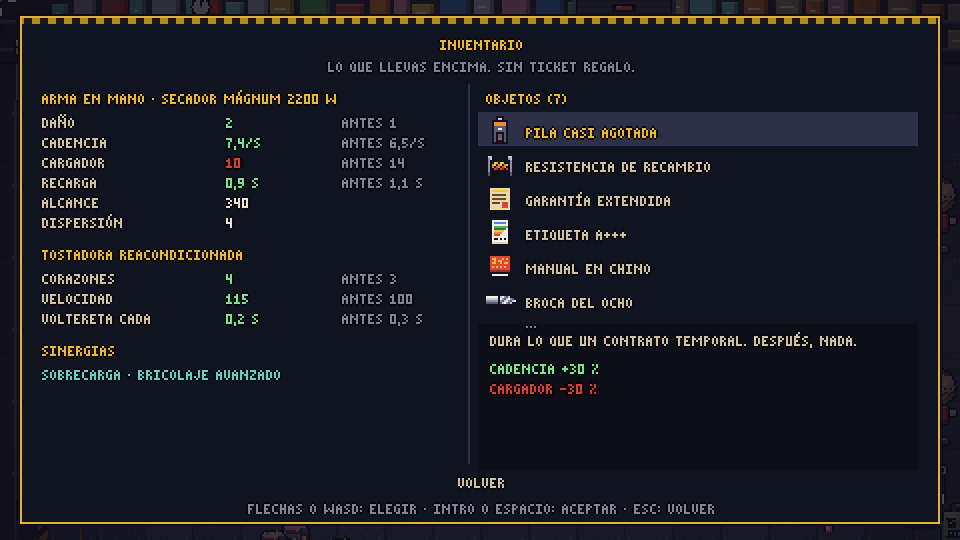
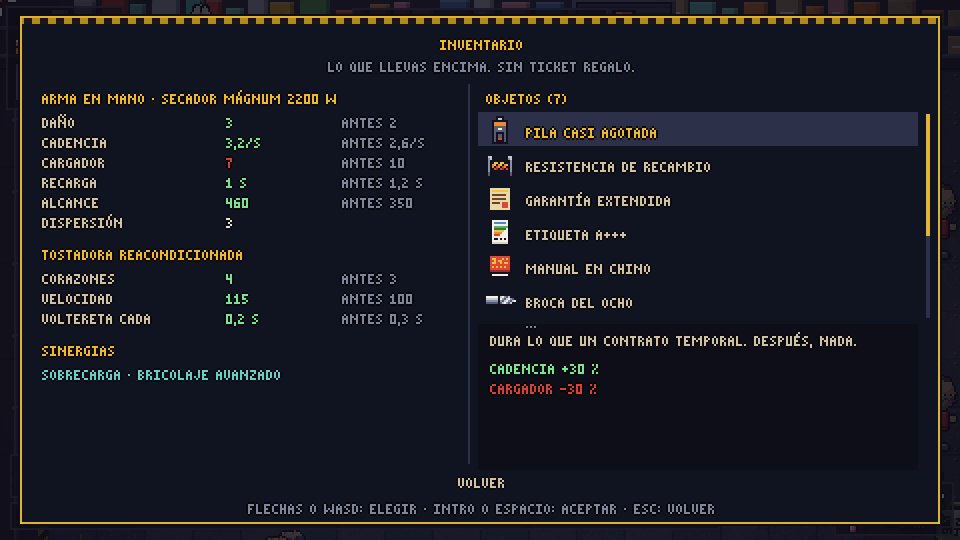
M7: errores conocidos (3), las asperezas; M7 terminado (versión 0.2.0)
Claude-Session: https://claude.ai/code/session_01LyCe1MtaF7ZEis8MKMvp3p

diff --git a/src/render/GameScene.ts b/src/render/GameScene.ts
@@ -228,6 +228,7 @@ export class GameScene extends Phaser.Scene {
   /** A line the till says once the one it is saying ends. */
   private tillNext: string | null = null;
   private banner!: Phaser.GameObjects.BitmapText;
+  private bannerPlate!: Phaser.GameObjects.Graphics;
   /** The description window that opens for a while when an item or a weapon is picked up. */
   private card!: ItemCard;
   private shutters: Array<{ img: Phaser.GameObjects.Image; h: number }> = [];
@@ -460,6 +461,9 @@ export class GameScene extends Phaser.Scene {
     this.holdWash = this.add.rectangle(0, 0, VIEW_W, VIEW_H, 0x9fb4e0, 1).setOrigin(0, 0).setScrollFactor(0).setDepth(88000).setAlpha(0);
     this.hurtFlash = this.hud(this.add.rectangle(0, 0, VIEW_W, VIEW_H, 0xe0453b, 1).setOrigin(0, 0)).setAlpha(0).setDepth(89000);
     this.banner = this.hud(this.add.bitmapText(VIEW_W / 2, 44, FONT, '', 8).setOrigin(0.5, 0).setCenterAlign());
+    // Its plate, like the HUD's, so it reads over the shelves (drawn each frame; see updateHud).
+    this.bannerPlate = this.hud(this.add.graphics());
+    this.bannerPlate.setDepth(this.banner.depth - 1);
     this.banner.setTint(0xf6c431).setAlpha(0);
     this.itemDesc = this.hud(this.add.bitmapText(VIEW_W / 2, 57, FONT, '', 8).setOrigin(0.5, 0).setCenterAlign().setMaxWidth(300)).setTint(0xd6cdb2).setAlpha(0);
     this.card = {
@@ -923,15 +927,21 @@ export class GameScene extends Phaser.Scene {
     where.setTint(0x858ea8).setAlpha(0);
     this.introParts.push(where);
     this.tweens.add({ targets: where, alpha: 1, delay: 300, duration: 200 });
+    // With big text the small lines go to double size (the name already is) and the motto may
+    // take two lines; the card grows upwards from the bottom bar.
     const x = 22;
-    const y = VIEW_H - BAR - 46;
-    const sub = this.hud(this.add.bitmapText(x, y, FONT, fontText(BOSS_CARD_SUBTITLE), 8)).setDepth(96001);
+    const small = 8 * scale;
+    const mottoText = wrapLines(fontText(`«${card.motto}»`), VIEW_W - 2 * x, scale).join('\n');
+    const mottoH = mottoText.split('\n').length * small;
+    const y = VIEW_H - BAR - 1 - mottoH - 29 - small;
+    const sub = this.hud(this.add.bitmapText(x, y, FONT, fontText(BOSS_CARD_SUBTITLE), small)).setDepth(96001);
     sub.setTint(0x858ea8).setAlpha(0);
-    const name = this.hud(this.add.bitmapText(x, y + 11, FONT, fontText(card.title), 16)).setDepth(96001);
+    const ny = y + small + 3;
+    const name = this.hud(this.add.bitmapText(x, ny, FONT, fontText(card.title), 16)).setDepth(96001);
     name.setTint(0xf6c431).setAlpha(0);
-    const line = this.hud(this.add.rectangle(x, y + 32, 1, 2, 0xe0453b, 1).setOrigin(0, 0)).setDepth(96001);
+    const line = this.hud(this.add.rectangle(x, ny + 21, 1, 2, 0xe0453b, 1).setOrigin(0, 0)).setDepth(96001);
     line.setAlpha(0);
-    const motto = this.hud(this.add.bitmapText(x, y + 37, FONT, fontText(`«${card.motto}»`), 8)).setDepth(96001);
+    const motto = this.hud(this.add.bitmapText(x, ny + 26, FONT, mottoText, small)).setDepth(96001);
     motto.setTint(0xd6cdb2).setAlpha(0);
     const skip = this.hud(this.add.bitmapText(VIEW_W - 8, VIEW_H - 18, FONT, fontText(BOSS_CARD_SKIP), 8).setOrigin(1, 0)).setDepth(96001);
     skip.setTint(0x5a627c).setAlpha(0);
@@ -1065,6 +1075,17 @@ export class GameScene extends Phaser.Scene {
   private whiteOut(s: Phaser.GameObjects.Image): void {
     if (settings().flashes) s.setTintFill(0xffffff);
     else s.setTint(SOFT_FLASH_TINT);
+  }
+
+  /** Whether a warning shows this frame: blinking faster and faster, or steady with soft flashes. */
+  private warnOn(warnK: number): boolean {
+    return settings().flashes ? blinkOn(warnK) : true;
+  }
+
+  /** The warning on a sprite: solid yellow (white at the end); with soft flashes, a yellow tint. */
+  private warnFill(s: Phaser.GameObjects.Image, warnK: number): void {
+    if (settings().flashes) s.setTintFill(this.warnColor(warnK));
+    else s.setTint(this.warnColor(warnK));
   }
 
   /** Telegraph colour: yellow, turning white at the end (only yellow with soft flashes). */
@@ -2011,14 +2032,17 @@ export class GameScene extends Phaser.Scene {
 
   /** A line that pops up from (x, y) and fades; if another is still there, it goes up over it. */
   private floatText(x: number, y: number, text: string, tint: number, key?: string, vy = -30, life = 0.6): FloatText {
-    const w = textWidth(text);
-    const box = { x: Math.round(x - w / 2), y: Math.round(y) - 8, w, h: 8 };
+    // Double size with big text, like everything that is read.
+    const scale = readScale(settings());
+    const w = textWidth(text) * scale;
+    const h = 8 * scale;
+    const box = { x: Math.round(x - w / 2), y: Math.round(y) - h, w, h };
     const placed = this.floats.map((f) => {
       const b = f.t.getBounds();
       return { x: b.x, y: b.y, w: b.width, h: b.height };
     });
     const top = stackFloat(placed, box);
-    const t = this.add.bitmapText(Math.round(x), top + 8, FONT, text, 8).setOrigin(0.5, 1).setDepth(85000).setTint(tint);
+    const t = this.add.bitmapText(Math.round(x), top + h, FONT, text, h).setOrigin(0.5, 1).setDepth(85000).setTint(tint);
     const f: FloatText = { t, vy, life, key, age: 0 };
     this.floats.push(f);
     return f;
@@ -2162,7 +2186,7 @@ export class GameScene extends Phaser.Scene {
       s.setX(d.x + shiver);
       if (d.hitT > 0.07) this.whiteOut(s);
       else if (d.hitT > 0) s.setTint(0xffb0a0);
-      else if (warnK >= 0 && blinkOn(warnK)) s.setTintFill(this.warnColor(warnK));
+      else if (warnK >= 0 && this.warnOn(warnK)) this.warnFill(s, warnK);
       else s.clearTint();
     }
     // Enemies (the ones that come back after a restock get their sprites here).
@@ -2223,9 +2247,9 @@ export class GameScene extends Phaser.Scene {
       if (en.hitT > 0.07 || tv.white) this.whiteOut(s);
       else if (en.hitT > 0) s.setTint(0xffb0a0);
       // A boss only goes warm while it warns: a white fill would hide its open door.
-      else if (warnK >= 0 && blinkOn(warnK)) {
+      else if (warnK >= 0 && this.warnOn(warnK)) {
         if (en.def.boss) s.setTint(warnK > 0.75 ? 0xffe9a8 : 0xffc870);
-        else s.setTintFill(this.warnColor(warnK));
+        else this.warnFill(s, warnK);
       } else s.clearTint();
       if (en.state === 'roar') {
         // Between phases: it shudders and breathes out cold.
@@ -2642,11 +2666,21 @@ export class GameScene extends Phaser.Scene {
   }
 
   /** Puts every HUD piece where the layout says and draws the plates behind them. */
-  private placeHud(l: HudLayout): void {
+  private placeHud(layout: HudLayout): void {
+    let l = layout;
+    // The items glide to a new place 1 px a frame (when the controls hint goes, they move down a
+    // row), their plate with them; a new icon, or one far away, goes straight there.
+    let lag = 0;
     this.itemIcons.forEach((icon, i) => {
       const at = l.items[i];
-      if (at) icon.setPosition(at.x, at.y);
+      if (!at) return;
+      const dx = at.x - icon.x;
+      const dy = at.y - icon.y;
+      if (!icon.getData('placed') || Math.abs(dx) + Math.abs(dy) > 40) icon.setPosition(at.x, at.y).setData('placed', true);
+      else icon.setPosition(icon.x + Math.sign(dx), icon.y + Math.sign(dy));
+      if (i === 0) lag = icon.y - at.y;
     });
+    if (l.itemsBox && lag) l = { ...l, itemsBox: { ...l.itemsBox, y: l.itemsBox.y + lag } };
     this.hearts.forEach((h, i) => h.setX(l.hearts[i]?.x ?? 8));
     this.hint.forEach((t, i) => {
       const line = l.hintLines[i];
@@ -2703,6 +2737,18 @@ export class GameScene extends Phaser.Scene {
 
   private updateHud(dt: number): void {
     const p = this.world.player;
+    const bp = this.bannerPlate;
+    bp.clear();
+    const ba = this.banner.alpha;
+    if (ba > 0 && this.banner.visible && this.banner.text) {
+      const b = this.banner.getBounds();
+      const x = Math.round(b.x) - 4;
+      const y = Math.round(b.y) - 2;
+      const w = Math.round(b.width) + 8;
+      const h = Math.round(b.height) + 3;
+      bp.fillStyle(0x0e0c16, 0.62 * ba).fillRect(x, y, w, h);
+      bp.lineStyle(1, 0x3a3f5c, 0.9 * ba).strokeRect(x + 0.5, y + 0.5, w - 1, h - 1);
+    }
     this.syncHudSlots();
     const l = this.computeLayout();
     this.layout = l;

diff --git a/src/render/PauseScene.ts b/src/render/PauseScene.ts
@@ -158,9 +158,13 @@ export class PauseScene extends Phaser.Scene {
     this.show('main');
   }
 
-  /** The entrance of the warehouse, dimmed, with the toaster in front and a vignette. */
+  /**
+   * The customer-service queue of the warehouse (20 tiles: as wide as the screen), empty, dimmed,
+   * with the toaster in front and a vignette.
+   */
   private drawTitleBackground(): void {
-    const room = buildRoom(ROOMS.entrada!);
+    const t = ROOMS['cola-atencion']!;
+    const room = buildRoom({ ...t, rows: t.rows.map((r) => r.replace(/[eo]/g, '.')) });
     if (!this.textures.exists('portada-sala')) addCanvasTexture(this, 'portada-sala', paintRoom(room, 'portada').canvas);
     this.add.image(VIEW_W / 2, VIEW_H / 2 + 20, 'portada-sala').setOrigin(0.5, 0.5);
     this.add.rectangle(0, 0, VIEW_W, VIEW_H, 0x0e0c16, 0.6).setOrigin(0, 0);
@@ -380,8 +384,10 @@ export class PauseScene extends Phaser.Scene {
       w = 200;
       y0 = 112;
     }
-    const x0 = Math.round(cx - w / 2) + (titleMain ? 30 : 0);
+    // On the title, the other screens stand to the right, clear of the toaster.
+    const x0 = titleMain ? Math.round(cx - w / 2) + 30 : this.mode === 'title' ? Math.max(Math.round(cx - w / 2), VIEW_W - 8 - w) : Math.round(cx - w / 2);
     const mx = x0 + w / 2;
+    const tc = titleMain ? cx : mx;
     const g = this.add.graphics();
     this.objs.push(g);
     g.fillStyle(0x0e0c16, 1).fillRect(x0 - 1, y0 - 1, w + 2, h + 2);
@@ -391,10 +397,10 @@ export class PauseScene extends Phaser.Scene {
     for (let x = x0 + 1; x < x0 + w - 1; x++) g.fillStyle(Math.floor(x / 4) % 2 === 0 ? 0xb08a1c : 0x191622, 1).fillRect(x, y0 + 1, 1, 3);
     let y = y0 + 12;
     if (!titleMain) {
-      text(cx, y, titles[this.screen], GOLD);
+      text(tc, y, titles[this.screen], GOLD);
       y += 14;
       if (sub) {
-        text(cx, y, sub, GREY);
+        text(tc, y, sub, GREY);
         y += 12;
       }
       y += 4;
@@ -422,7 +428,7 @@ export class PauseScene extends Phaser.Scene {
       y += 8;
     } else if (this.screen === 'credits') {
       CREDITS.forEach((l, i) => {
-        text(cx, y, l, i === CREDITS.length - 1 ? GREY : CREAM);
+        text(tc, y, l, i === CREDITS.length - 1 ? GREY : CREAM);
         y += 11;
       });
       y += 8;
@@ -449,7 +455,7 @@ export class PauseScene extends Phaser.Scene {
       text(6, VIEW_H - 11, TITLE_FOOTER, 0x5a627c, 0);
       const v = `v${__VERSION__}`;
       text(VIEW_W - 6 - textWidth(v), VIEW_H - 11, v, 0x5a627c, 0);
-    } else text(cx, y0 + h - 14, MENU_HINT, GREY);
+    } else text(tc, y0 + h - 14, MENU_HINT, GREY);
   }
 
   /**
@@ -530,6 +536,16 @@ export class PauseScene extends Phaser.Scene {
       ry += INVENTORY.rowH;
     });
     if (first + VISIBLE < things.length) text(rx + 20, ry - 3, '...', GREY);
+    // More than fits: a scroll bar on the right edge says how much and where.
+    if (things.length > VISIBLE) {
+      const top = y0 + 36 + 13;
+      const track = VISIBLE * INVENTORY.rowH;
+      const thumb = Math.max(6, Math.round((track * VISIBLE) / things.length));
+      const at = top + Math.round(((track - thumb) * first) / (things.length - VISIBLE));
+      const bx = x0 + W - 7;
+      g.fillStyle(0x2c3048, 1).fillRect(bx, top, 2, track);
+      g.fillStyle(GOLD, 0.9).fillRect(bx, at, 2, thumb);
+    }
 
     // Under the list: the chosen one in full.
     const sel = this.menu.current;

diff --git a/tools/e2e.ts b/tools/e2e.ts
@@ -241,9 +241,12 @@ try {
   if (s3.tick < 60 * seconds * 0.5) throw new Error(`La simulación va lenta: ${s3.tick} ticks en ${seconds} s`);
 
   // Damage: an enemy bullet at the toaster takes half a heart and leaves it blinking.
-  const bulletAt = (dx: number): string => `(() => { const w = window.__GE__.scene.world; const p = w.player;
-    w.bullets.push({ id: w.nextId++, owner: 'enemy', x: p.x - ${dx}, y: p.y - 9, vx: 140, vy: 0, r: 2.5, life: 3, damage: 1, knockback: 0,
-      color: 'red', age: 0, dir: 0, speed: 140, by: 'microondas' }); })()`;
+  // (From the left, or from the right if a box stands in the way on the left: it would stop it.)
+  const bulletAt = (dx: number): string => `(() => { const w = window.__GE__.scene.world; const p = w.player; const y = p.y - 9;
+    const blocked = (x0, x1) => w.room.props.some((pr) => pr.box.y <= y && y <= pr.box.y + pr.box.h && pr.box.x < Math.max(x0, x1) && pr.box.x + pr.box.w > Math.min(x0, x1));
+    const s = blocked(p.x - ${dx}, p.x) ? -1 : 1;
+    w.bullets.push({ id: w.nextId++, owner: 'enemy', x: p.x - s * ${dx}, y, vx: 140 * s, vy: 0, r: 2.5, life: 3, damage: 1, knockback: 0,
+      color: 'red', age: 0, dir: s > 0 ? 0 : Math.PI, speed: 140, by: 'microondas' }); })()`;
   await page.evaluate(`(() => { const w = window.__GE__.scene.world; w.noDamage = false; w.player.invulnerable = 0; w.player.rollT = -1; })()`);
   const hp0 = (await state()).hp;
   await page.evaluate(bulletAt(24));
@@ -809,8 +812,14 @@ try {
   await shot('31h-texto-grande-inventario-volver.png');
   await tapKeys('Escape', 'Escape');
   await page.waitForFunction('!window.__GE__.scene.scene.isPaused()', undefined, { timeout: 3000 });
+  // The boss card, with its motto at double size.
+  await page.goto(`${url}?semilla=e2e-jefe&sala=jefe`);
+  await page.waitForFunction('window.__GE__ && window.__GE__.state().ready', undefined, { timeout: 20000 });
+  await page.evaluate('window.__GE__.scene.world.noDamage = true');
+  await page.waitForTimeout(2300);
+  await shot('31i-texto-grande-jefa.png');
   await page.evaluate("localStorage.removeItem('garantia-expirada/opciones')");
-  console.log('Texto grande: ventana de descripción, sinergia después, nombre de sala, bocadillo de la caja, parte de baja e inventario.');
+  console.log('Texto grande: ventana de descripción, sinergia después, nombre de sala, bocadillo de la caja, parte de baja, inventario y tarjeta de la jefa.');
 
   // M6: the title screen. Credits, then a run; from the pause, back to the title.
   await page.goto(url);

diff --git a/docs/ERRORES_CONOCIDOS.md b/docs/ERRORES_CONOCIDOS.md
@@ -4,8 +4,9 @@ La lista viva de lo que está mal o se ve mal. Sale de los «Problemas conocidos
 (repasados uno a uno el 2026-10-29, contra el código y las capturas) y se mantiene a mano: quien
 encuentre un error lo apunta aquí, y quien lo arregle lo pasa a «Arreglados» con la fecha.
 
-El hito M7 pide que las dos primeras secciones queden **vacías**. Las otras no cuentan: son
-decisiones tomadas o trabajo que ya tiene sitio en otro hito.
+El hito M7 pedía que las dos primeras secciones quedaran **vacías** (lo están desde el
+2026-10-29). Las otras no cuentan: son decisiones tomadas o trabajo que ya tiene sitio en otro
+hito. A partir de M8, un error nuevo se apunta aquí y se arregla antes de cerrar su hito.
 
 ## Errores (algo funciona mal)
 
@@ -13,21 +14,7 @@ Ninguno conocido.
 
 ## Asperezas (se ve o se nota feo, sin romper nada)
 
-- [ ] Portada: la sala del fondo es más estrecha que la pantalla y se ven bordes oscuros a los
-  lados.
-- [ ] Portada: los paneles de créditos, opciones, controles e historial tapan media tostadora.
-- [ ] Al cambiar una tecla en la pausa, los carteles que ya estaban en pantalla siguen nombrando
-  la tecla vieja hasta que se van.
-- [ ] El nombre de la sala del tesoro («Objetos perdidos (nadie los reclamó)») cae encima de la
-  puerta de arriba.
-- [ ] El nombre del objeto recogido sale mientras aún se ve el nombre de la sala (un segundo, en
-  líneas distintas).
-- [ ] La ayuda de controles: al apagarse, los objetos de abajo bajan una fila de golpe.
-- [ ] Los avisos de «cambia de arma» y «agotado» no llevan placa (los demás letreros sí).
-- [ ] Inventario: con más cosas de las que caben, solo «...» indica que hay más; no hay barra.
-- [ ] Con **Destellos suaves**, los avisos amarillos siguen parpadeando (a unos 8 Hz al final).
-- [ ] Con **Texto grande**, la tarjeta de presentación de la jefa y los textos flotantes (daño,
-  cupones) siguen a tamaño normal.
+Ninguna conocida.
 
 ## No son errores (decidido, con su motivo)
 
@@ -52,6 +39,13 @@ Ninguno conocido.
 - El bot llega a la tienda a menudo con pocos cupones y no vuelve: es el bot, no el juego.
 - Las cifras de `npm run rendimiento` dependen de la máquina, y las de `npm run objetos` tienen
   un ruido de ±8 puntos con 40 combates: se comparan antes y después, no en absoluto.
+- Todos los nombres de sala salen arriba en el centro, sobre la pared del fondo, que es donde
+  está la puerta norte; en salas estrechas (el tesoro) la placa pisa el marco de la puerta. Se lee
+  gracias a la placa y se va a los 3 s.
+- El nombre de un objeto recién recogido puede coincidir un segundo con el nombre de la sala: van
+  en líneas distintas y se leen los dos.
+- Al cambiar una tecla en la pausa, lo que ya estaba en pantalla (un letrero, la ventana de
+  descripción) se va en unos segundos con la tecla vieja; lo que sale después ya nombra la nueva.
 
 ## Para otro hito
 
@@ -63,6 +57,21 @@ Ninguno conocido.
 
 ## Arreglados
 
+- 2026-10-29 · **Portada**: el fondo es ahora la Cola de Atención al Cliente (20 casillas, tan
+  ancha como la pantalla: sin bordes oscuros), y créditos, opciones, controles e historial se
+  ponen a la derecha, sin tapar a la tostadora.
+- 2026-10-29 · **Objetos del HUD**: al irse la ayuda de controles bajan de 1 en 1 px, con su placa,
+  en vez de saltar una fila de golpe.
+- 2026-10-29 · **Letreros sin placa** (puertas abiertas, cambio de arma, reposición, montacargas):
+  llevan la misma placa oscura que el HUD.
+- 2026-10-29 · **Inventario**: con más cosas de las que caben, una barra a la derecha dice cuántas
+  hay y por dónde va la lista.
+- 2026-10-29 · **Destellos suaves**: los avisos ya no parpadean; el enemigo se tiñe de amarillo
+  fijo mientras avisa.
+- 2026-10-29 · **Texto grande**: también la tarjeta de la jefa (subtítulo y lema a doble tamaño, el
+  lema en dos líneas si hace falta) y los textos flotantes (cupones, corazones, sellos).
+- 2026-10-29 · **e2e**: la prueba de la bala que quita medio corazón fallaba a veces si la tostadora
+  tenía una caja a la izquierda (la bala nacía dentro); ahora llega por el lado libre.
 - 2026-10-29 · **Animación: las piernas del Mando se tapaban** en los pasos elevados y **la boquilla
   del Aspirador subía con el cuerpo**. Las piernas juntas (5 px o menos) ya no se cruzan por el
   centro: pasan a su distancia de reposo y la zapatilla que avanza se levanta 2 px

diff --git a/docs/BITACORA.md b/docs/BITACORA.md
@@ -2,6 +2,14 @@
 
 La entrada más reciente va arriba. Cada sesión añade una.
 
+## 2026-10-29 17:40 — Hito M7 — Errores conocidos (3): las asperezas; M7 terminado
+
+- Hecho: la sección «Asperezas» de `docs/ERRORES_CONOCIDOS.md`, vacía. **Portada**: el fondo es la Cola de Atención al Cliente sin enemigos ni obstáculos (20 casillas: tan ancha como la pantalla, sin los bordes oscuros de la entrada) y los paneles de créditos, opciones, controles e historial se colocan a la derecha, sin tapar a la tostadora. **Letreros** (puertas abiertas, cambio de arma, reposición, montacargas): con la placa oscura del HUD, dibujada cada fotograma según su texto y su transparencia. **Objetos del HUD**: cuando se va la ayuda de controles bajan 1 px por fotograma, con su placa, en vez de saltar una fila. **Inventario**: barra de desplazamiento a la derecha de la lista cuando no cabe todo. **Destellos suaves**: los avisos ya no parpadean; el enemigo se tiñe de amarillo fijo mientras avisa (`warnOn` y `warnFill`). **Texto grande**: la tarjeta de la jefa pone subtítulo y lema a doble tamaño (el lema, partido en líneas) y crece hacia arriba; a tamaño normal queda donde estaba, píxel a píxel. Los textos flotantes también van a doble tamaño. El e2e saca la tarjeta grande (31i). De paso: la prueba del e2e «una bala enemiga quita medio corazón» falló una vez (la bala nacía dentro de una caja a la izquierda de la tostadora); ahora llega por el lado libre.
+- Decisiones: tres asperezas no eran errores y pasan a «No son errores» con su motivo: el nombre de sala sobre la puerta norte (es donde van todos, con placa), el nombre del objeto que coincide un segundo con el de la sala y lo que queda en pantalla con la tecla vieja tras cambiarla (se va en segundos). La de las piernas del Mando y la boquilla del Aspirador la ha arreglado a la vez otra sesión (entrada siguiente). Con esto la lista de errores está vacía y **M7 queda terminado**: versión **0.2.0**. Estimación: quedan 122 sesiones (~159 con margen).
+- Medidas: sin cambios de simulación (bot igual: 0 fallos). 334 tests en verde (con los de la otra sesión). Capturas 15b, 26a, 26b, 27a y 31i revisadas.
+- Problemas conocidos: ninguno en la lista. La canción más larga cuesta ~0,1 s de golpe al prepararse en la portada.
+- Siguiente paso: M8, planta 2 (Informática): primero su juego de casillas y color propio.
+
 ## 2026-10-29 17:34 — Hito M7 — Errores conocidos (3a): piernas del Mando y boquilla del Aspirador
 
 - Hecho: la aspereza de animación de `docs/ERRORES_CONOCIDOS.md`. (1) **Piernas juntas**: con `poseCycle` las piernas se cruzan por el centro en los pasos elevados; con piernas a 4–5 px (Mando y Aspirador) las dos zapatillas caían una encima de otra y se leían como un solo pie gordo. `narrowPoseCycle` (nuevo, en `tools/sprites/pose.ts`) hace el paso de otra forma: contacto, la de atrás levantada 2 px a la distancia de reposo, contacto con las piernas cambiadas y la de delante levantada. `poseFeet` dibuja ahora un pie levantado (`pose.lift`, que antes solo usaba la Nevera con su código propio); los cuadros de las zapatillas del Mando y las ruedas del Aspirador suben con su pie. (2) **La boquilla del Aspirador** (el final de la manguera y el cepillo) pasa a la capa del suelo: ya no sube y baja con la respiración ni con los pasos; un tramo más de manguera tapa el hueco cuando el cuerpo sube. Tests nuevos en `tests/animaciones.test.ts` (2): en los pasos elevados las zapatillas no se tapan, y la boquilla es igual en todos los fotogramas.

diff --git a/docs/HOJA_DE_RUTA.md b/docs/HOJA_DE_RUTA.md
@@ -18,7 +18,7 @@ muestra junto a cada hito; si un hito se desvía mucho, se corrige aquí y allí
 | --- | ---: | --- |
 | M5 · Armas, objetos y sinergias | hecho | Terminado el 29 a las 11:55 |
 | M6 · Partida completa | hecho | Terminado el 29 a las 13:55 (en 10 sesiones, lo estimado) |
-| M7 · Pulido | 13 | Equilibrio (dificultad media-alta), armas y objetos, y animaciones de todos los enemigos |
+| M7 · Pulido | hecho | Terminado el 29 a las 17:40 (en unas 12 sesiones) |
 | M8 · Planta 2: Informática | 13 | Casillas 1, entornos 1, enemigos 4, jefe 5 (como la Nevera), objetos 2 |
 | M9 · El centro y la historia | 10 | Mostrador, PNJs con diálogos, desbloqueos, objetos de historia |
 | M10 · Plantas 3 y 4 | 24 | Dos plantas como la 2 |
@@ -27,7 +27,7 @@ muestra junto a cada hito; si un hito se desvía mucho, se corrige aquí y allí
 | M13 · Cinco personajes | 14 | Cuatro personajes nuevos con arma, habilidad, historia y final |
 | M14 · Más contenido | 30 | De ~5 armas, ~50 objetos y ~22 enemigos a 30/80/30, más 2 jefes |
 | M15 · Escritorio | 6 | Empaquetado, guardado en disco y flujo de instaladores |
-| **Total** | **135** | **~176 con un 30 % de margen** (arreglos, notas del humano, sorpresas) |
+| **Total** | **122** | **~159 con un 30 % de margen** (arreglos, notas del humano, sorpresas) |
 
 En calendario: con una sesión por hora sin parones, la primera versión jugable (M6) llegaría en
 medio día o un día, la versión pulida (M7) en uno o dos días y el juego completo con escritorio
@@ -151,7 +151,7 @@ semillas distintas acaban con builds distintas.
 **Criterios de aceptación:** se cumple el «contenido mínimo de la primera versión jugable» de
 `docs/DISENO.md`; el humano puede jugar una partida completa en el enlace publicado.
 
-## M7 · Pulido de la primera versión
+## M7 · Pulido de la primera versión (hecho)
 
 - [x] Equilibrio con datos del bot: tiempo por sala, daño recibido, tasa de victoria. Objetivo
   (nota del humano): dificultad media-alta; la planta 1 se gana con práctica, no a la primera.
@@ -169,10 +169,10 @@ semillas distintas acaban con builds distintas.
 - [x] Accesibilidad, parte 2c: texto grande en el inventario (la ventana de descripción grande, como emergente sobre la parte de abajo; la lista a dos líneas).
 - [x] Accesibilidad, parte 3: remapeo de controles (teclado; el mando, con su soporte completo en M15).
 - [x] Animaciones completas de todos los enemigos (reposo con respiración y paso de 4 fotogramas por distancia; golpe y muerte ya eran comunes: destello blanco y despiece).
-- [ ] Lista de errores conocidos vacía (`docs/ERRORES_CONOCIDOS.md`: las secciones «Errores» y «Asperezas» sin nada).
+- [x] Lista de errores conocidos vacía (`docs/ERRORES_CONOCIDOS.md`: las secciones «Errores» y «Asperezas» sin nada).
   - [x] Parte 1: reunir la lista (repasando cada «Problema conocido» de la bitácora) y arreglar las rendijas entre obstáculos, los enemigos que se amontonaban, los cupones de la jefa sobre el montacargas y el montacargas que volvía a subir.
   - [x] Parte 2: la sección «Errores» (la jefa cortada al empezar, trozos que cruzan paredes, parón del primer clic, e2e de la jefa desde la planta).
-  - [ ] Parte 3: las asperezas.
+  - [x] Parte 3: las asperezas (portada, letreros con placa, objetos del HUD que se deslizan, barra del inventario, avisos fijos con destellos suaves, tarjeta de la jefa y textos flotantes con texto grande); las que no eran errores, a su sección con el motivo.
 
 ## M8 · Planta 2: Informática
 
